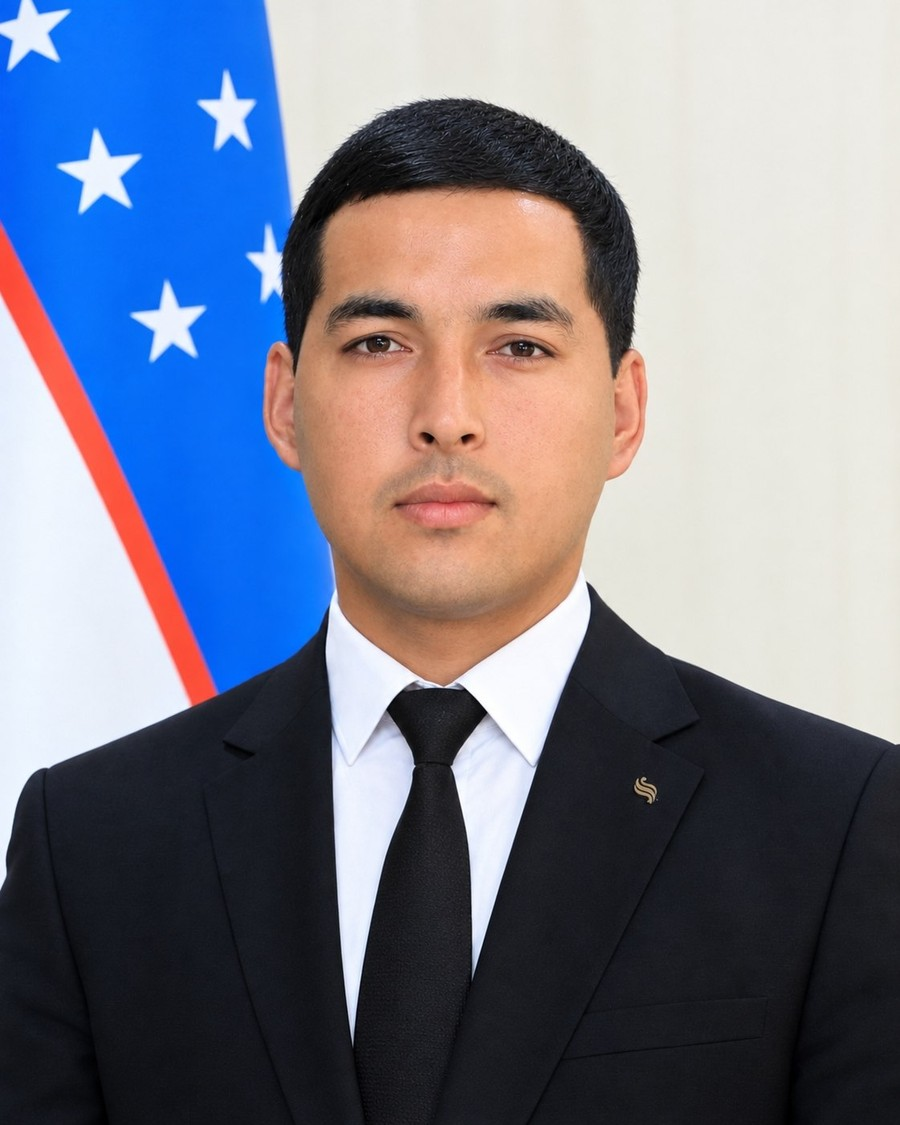
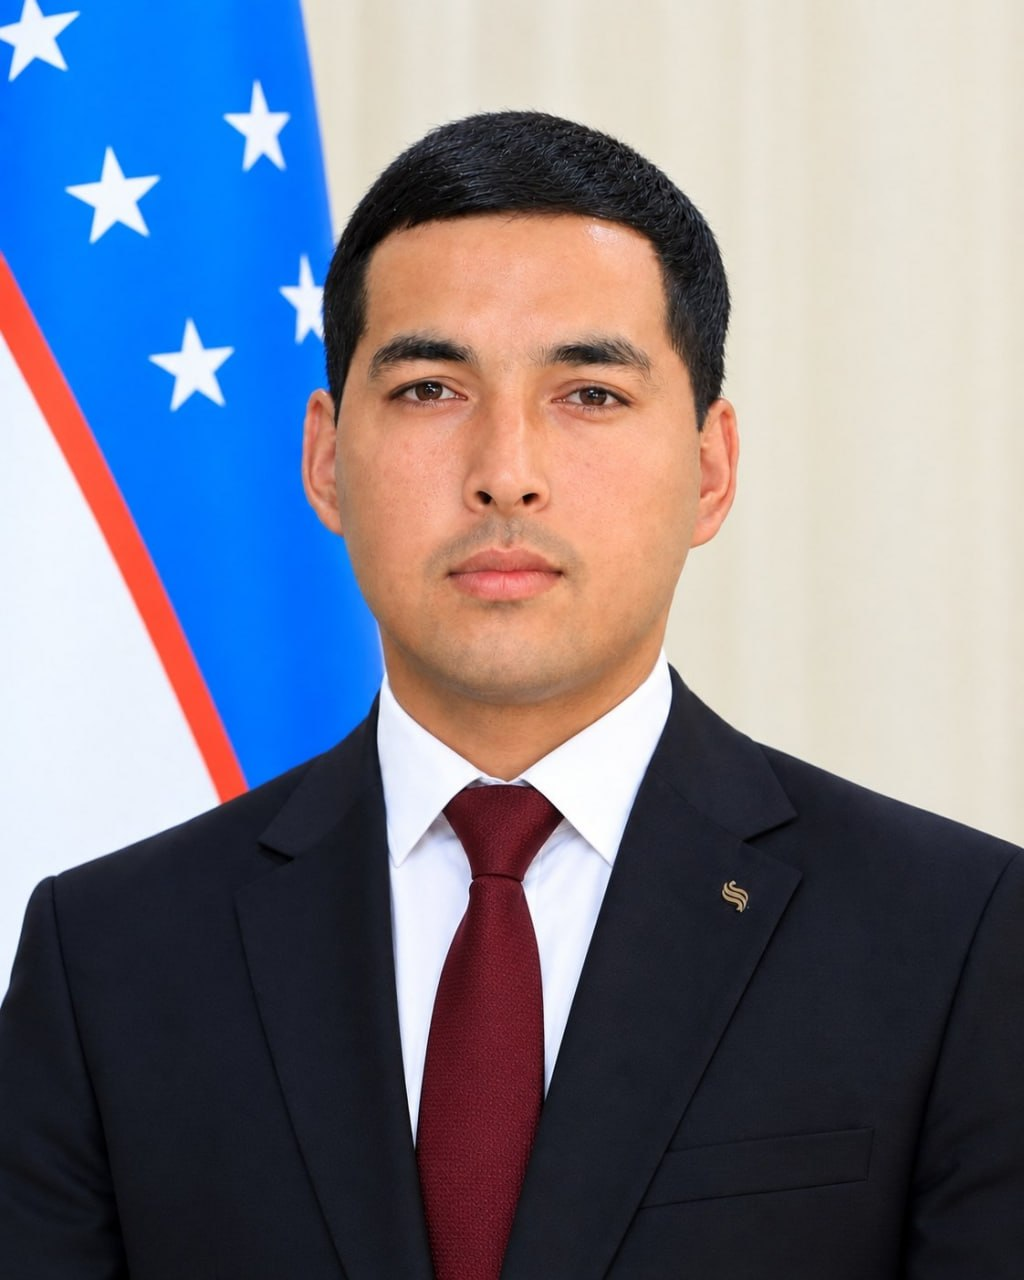
fix: rasmlarni yangilash, imloviy xatoliklar va katta harflarni to'g'rilash

diff --git a/src/data/siteData.js b/src/data/siteData.js
@@ -16,7 +16,7 @@ import {
 export const profile = {
   name: 'UrDU Yoshlar Ittifoqi BT',
   brand: 'UrDU Yoshlar Ittifoqi',
-  title: "Boshlang‘ich tashkiloti va Yetakchilar kengashi",
+  title: "Boshlang‘ich tashkiloti va yetakchilar kengashi",
   subtitle: "Urganch davlat universiteti Yoshlar ittifoqi boshlang‘ich tashkiloti",
   tagline: "Ilm, tashabbus va intellekt birlashgan maskan",
   university: 'Urganch Davlat Universiteti',
@@ -49,7 +49,7 @@ export const navItems = [
 
 export const universityStats = [
   {
-    value: '20,000+',
+    value: '20 000+',
     label: 'Talaba-yoshlar',
     description: 'Universitet bo‘ylab barcha fakultet talabalari',
     icon: Users,
@@ -508,7 +508,7 @@ export const partnerUniversities = [
     facultyFocus: 'Axborot texnologiyalari, Matematika, Iqtisodiyot',
     grantDetails: 'Bir semestr uchun to‘liq moliyalashtiriladigan grant (oylik 850€ + yo‘l xarajatlari).',
     description: 'UrDU bilan eng faol hamkorlardan biri. Har yili 5 dan ortiq talabamiz Klagenfurtda 1 semestr bepul tahsil oladi.',
-    badge: 'Erasmus+ Hamkor',
+    badge: 'Erasmus+ hamkor',
     website: 'https://www.aau.at',
   },
   {
@@ -524,7 +524,7 @@ export const partnerUniversities = [
     facultyFocus: 'Meʼmorchilik, Ekologiya, Muhandislik texnologiyalari',
     grantDetails: 'DAAD stipendiyalari va yozgi amaliyot kurslari orqali to‘liq qoplanadi.',
     description: 'Yevropaning nufuzli dizayn va meʼmorchilik dargohi. Atrof-muhit va barqaror qurilish yo‘nalishlarida yosh olimlar almashinuvi.',
-    badge: 'DAAD Dasturi',
+    badge: 'DAAD dasturi',
     website: 'https://www.uni-weimar.de',
   },
   {
@@ -540,7 +540,7 @@ export const partnerUniversities = [
     facultyFocus: 'Amaliy matematika, Kompyuter fanlari, Fizika',
     grantDetails: 'Oylik 850€ stipendiya va Yevropa Ittifoqining rasmiy diplomi berilishi.',
     description: "Amaliy matematika va axborot tizimlari bo‘yicha magistr talabalarimiz uchun 1+1 qo‘shma dasturi yo‘lga qo‘yilgan.",
-    badge: 'Erasmus+ Hamkor',
+    badge: 'Erasmus+ hamkor',
     website: 'https://www.univaq.it',
   },
   {
@@ -556,7 +556,7 @@ export const partnerUniversities = [
     facultyFocus: 'Tabiiy fanlar, Biologiya, Biotexnologiya',
     grantDetails: 'Erasmus+ doirasida bepul o‘qish, turar joy va oylik stipendiya.',
     description: 'Qishloq xo‘jaligi, oziq-ovqat xavfsizligi va bio-ekologiya bo‘yicha talabalarimiz ilmiy laboratoriyalarda amaliyot o‘taydilar.',
-    badge: 'Erasmus+ Hamkor',
+    badge: 'Erasmus+ hamkor',
     website: 'https://www.uco.es',
   },
   {
@@ -572,7 +572,7 @@ export const partnerUniversities = [
     facultyFocus: 'Agrobiznes, Iqtisodiyot, Oziq-ovqat texnologiyasi',
     grantDetails: 'Bir semestrlik o‘quv kursi va Yevropa standartidagi kreditlar (ECTS) transferi.',
     description: 'Polshaning eng yirik tabiiy fanlar universiteti. Talabalarimiz 1 semestr davomida ingliz tilidagi fanlarni o‘zlashtiradilar.',
-    badge: 'Akademik Hamkor',
+    badge: 'Akademik hamkor',
     website: 'https://www.sggw.edu.pl',
   },
   {
@@ -588,7 +588,7 @@ export const partnerUniversities = [
     facultyFocus: 'Tarix, Sharqshunoslik, Filologiya, Jurnalistika',
     grantDetails: 'Mevlana dasturi bo‘yicha bepul yotoqxona va 4 oylik stipendiya.',
     description: 'Turk dunyosi yoshlari o‘rtasida tarixiy-madaniy integratsiya va yosh tadqiqotchilarning arxiv ishlari.',
-    badge: 'Mevlana Dasturi',
+    badge: 'Mevlana dasturi',
     website: 'https://www.istanbul.edu.tr',
   },
   {
@@ -604,7 +604,7 @@ export const partnerUniversities = [
     facultyFocus: 'Turizm, Kimyo, O‘zbek-Turk tili',
     grantDetails: 'Bakalavr talabalari uchun 4-bosqichda Izmir shahrida o‘qish va ikki tomonlama diplom.',
     description: 'UrDU bilan ikki tomonlama diplom (Double Degree) beruvchi eng yirik strategik taʼlim hamkori.',
-    badge: 'Qo‘shma Diplom',
+    badge: 'Qo‘shma diplom',
     website: 'https://ege.edu.tr',
   },
   {
@@ -620,7 +620,7 @@ export const partnerUniversities = [
     facultyFocus: 'Matematika va mexanika, Kimyo, Fizika',
     grantDetails: 'Magistr va iqtidorli talabalar uchun ilmiy laboratoriyalarda qisqa muddatli amaliyot.',
     description: 'MDH hududidagi yetakchi oliygoh bilan fundamental fanlar bo‘yicha seminar va mahorat darslari.',
-    badge: 'Ilmiy Hamkor',
+    badge: 'Ilmiy hamkor',
     website: 'https://www.msu.ru',
   },
   {
@@ -636,7 +636,7 @@ export const partnerUniversities = [
     facultyFocus: 'Filologiya, Huquq, Axborot texnologiyalari',
     grantDetails: 'O‘zaro kelishuv asosida bepul o‘qish va stipendiyali almashinuv.',
     description: 'KFU ning IT-litseyi va yoshlar markazlari bilan muntazam xakatonlar va tajriba almashinuvi.',
-    badge: 'Akademik Hamkor',
+    badge: 'Akademik hamkor',
     website: 'https://kpfu.ru',
   },
   {
@@ -652,7 +652,7 @@ export const partnerUniversities = [
     facultyFocus: 'Raqamli iqtisodiyot, Sunʼiy intellekt, Xitoy tili',
     grantDetails: 'To‘liq qoplanadigan hukumat granti (o‘qish, yotoqxona, tibbiy sug‘urta va oylik 3000 yuan).',
     description: 'Xitoy tilini o‘rganayotgan va IT yo‘nalishidagi iqtidorli talabalar uchun beqiyos global tramplin.',
-    badge: 'CSC Hukumat Granti',
+    badge: 'CSC hukumat granti',
     website: 'https://www.shu.edu.cn',
   },
   {
@@ -668,7 +668,7 @@ export const partnerUniversities = [
     facultyFocus: 'Xalqaro munosabatlar, Turizm menejmenti, Ingliz tili',
     grantDetails: 'Qisqa muddatli yetakchilik kurslari va almashinuv dasturlari.',
     description: 'Janubi-sharqiy Osiyoning yetakchi nufuzli universiteti bilan yoshlar yetakchilari almashinuvi.',
-    badge: 'Xalqaro Forum',
+    badge: 'Xalqaro forum',
     website: 'https://www.ukm.my',
   },
   {
@@ -684,7 +684,7 @@ export const partnerUniversities = [
     facultyFocus: 'Tarix, Biologiya, Geografiya va ekologiya',
     grantDetails: 'Mintaqaviy integratsiya doirasida bepul taʼlim va yotoqxona.',
     description: 'Qardosh Qozog‘iston bilan talabalar ilmiy anjumanlari va sport musobaqalaridagi yaqin hamkorlik.',
-    badge: 'Mintaqaviy Hamkor',
+    badge: 'Mintaqaviy hamkor',
     website: 'https://www.kaznu.kz',
   },
 ]

diff --git a/src/App.jsx b/src/App.jsx
@@ -122,7 +122,7 @@ function App() {
     if (normalizedPath === '/tuzilma' || normalizedPath === '/team') {
       seo = {
         ...seo,
-        title: 'Tuzilma va Yetakchilar | Ursu Ittifoq',
+        title: 'Tuzilma va yetakchilar | Ursu Ittifoq',
         description:
           'Urganch davlat universiteti Yoshlar ittifoqi yetakchilar kengashi, boshqaruv tarkibi va fakultet koordinatorlari.',
       }
@@ -132,7 +132,7 @@ function App() {
     ) {
       seo = {
         ...seo,
-        title: 'Klublar va To‘garaklar | Ursu Ittifoq',
+        title: 'Klublar va to‘garaklar | Ursu Ittifoq',
         description:
           'Urganch davlat universiteti talabalar klublari, ilmiy to‘garaklar, intellektual jamoalar va yoshlar loyihalari.',
       }
@@ -142,42 +142,42 @@ function App() {
     ) {
       seo = {
         ...seo,
-        title: 'Klub Tafsilotlari | Ursu Ittifoq',
+        title: 'Klub tafsilotlari | Ursu Ittifoq',
         description:
           'Urganch davlat universiteti Yoshlar ittifoqi yo‘nalishi va talabalar klubi faoliyati haqida batafsil maʼlumot.',
       }
     } else if (normalizedPath === '/boglanish') {
       seo = {
         ...seo,
-        title: 'Bog‘lanish va Murojaat | Ursu Ittifoq',
+        title: 'Bog‘lanish va murojaat | Ursu Ittifoq',
         description:
           'Urganch davlat universiteti Yoshlar ittifoqi rasmiy manzillari, aloqa telefonlari va onlayn murojaat yuborish.',
       }
     } else if (normalizedPath === '/hamkorlik') {
       seo = {
         ...seo,
-        title: 'Xalqaro Hamkorlik va Grantlar | Ursu Ittifoq',
+        title: 'Xalqaro hamkorlik va grantlar | Ursu Ittifoq',
         description:
           'Urganch davlat universiteti talabalari uchun xalqaro grantlar, xorijiy almashinuv dasturlari va loyihalar.',
       }
     } else if (normalizedPath === '/yangiliklar') {
       seo = {
         ...seo,
-        title: 'Yangiliklar va Eʼlonlar | Ursu Ittifoq',
+        title: 'Yangiliklar va eʼlonlar | Ursu Ittifoq',
         description:
           'Urganch davlat universiteti Yoshlar ittifoqi so‘nggi yangiliklari, eʼlonlar, xakatonlar va yoshlar tadbirlari.',
       }
     } else if (normalizedPath.startsWith('/yangiliklar/')) {
       seo = {
         ...seo,
-        title: 'Yangilik Tafsilotlari | Ursu Ittifoq',
+        title: 'Yangilik tafsilotlari | Ursu Ittifoq',
         description:
           'Urganch davlat universiteti Yoshlar ittifoqi yangiligi va talabalar tadbirlari haqida to‘liq maʼlumot.',
       }
     } else if (normalizedPath === '/statistika') {
       seo = {
         ...seo,
-        title: 'Statistika va Ko‘rsatkichlar | Ursu Ittifoq',
+        title: 'Statistika va ko‘rsatkichlar | Ursu Ittifoq',
         description:
           'Urganch davlat universiteti talaba-yoshlar kontingenti, fakultetlar va jamoatchilik faolligi ko‘rsatkichlari.',
       }
@@ -185,7 +185,7 @@ function App() {
       shouldIndex = false
       seo = {
         ...seo,
-        title: 'Admin Boshqaruv Paneli | Ursu Ittifoq',
+        title: 'Admin boshqaruv paneli | Ursu Ittifoq',
         description: 'Urganch davlat universiteti Yoshlar ittifoqi admin boshqaruv tizimi.',
       }
     } else if (!isHome) {

diff --git a/src/components/sections/HeroSection.jsx b/src/components/sections/HeroSection.jsx
@@ -58,7 +58,7 @@ function HeroSection() {
             </h1>
 
             <p className="mt-3 text-lg font-semibold text-emerald-700 sm:text-xl dark:text-emerald-300/90">
-              UrDU Yoshlar ittifoqi — Boshlang‘ich tashkiloti va Yetakchilar kengashi
+              UrDU Yoshlar ittifoqi — Boshlang‘ich tashkiloti va yetakchilar kengashi
             </p>
 
             <p className="mt-4 max-w-[55ch] text-base leading-relaxed text-zinc-600 sm:text-lg dark:text-zinc-300">
@@ -121,14 +121,14 @@ function HeroSection() {
           <div className="flex items-start gap-3">
             <Award size={18} className="text-cyan-600 shrink-0 mt-0.5 dark:text-cyan-400" />
             <div>
-              <p className="font-bold text-zinc-900 dark:text-zinc-200">13 ta Fakultet Kengashi</p>
-              <p className="mt-0.5 text-zinc-500 font-normal">20,000+ Talaba qamrovi</p>
+              <p className="font-bold text-zinc-900 dark:text-zinc-200">13 ta fakultet kengashi</p>
+              <p className="mt-0.5 text-zinc-500 font-normal">20 000+ talaba qamrovi</p>
             </div>
           </div>
           <div className="flex items-start gap-3 sm:justify-end">
             <Send size={18} className="text-amber-500 shrink-0 mt-0.5 dark:text-amber-400" />
             <div className="sm:text-right">
-              <p className="font-bold text-zinc-900 dark:text-zinc-200">Rasmiy Kanal</p>
+              <p className="font-bold text-zinc-900 dark:text-zinc-200">Rasmiy kanal</p>
               <p className="mt-0.5 text-zinc-500 font-normal">{profile.telegramHandle}</p>
             </div>
           </div>

diff --git a/src/components/sections/BlogsSection.jsx b/src/components/sections/BlogsSection.jsx
@@ -26,7 +26,7 @@ function BlogsSection() {
           Yangiliklar & Eʼlonlar
         </div>
         <h2 className="mt-4 text-3xl font-bold tracking-tight text-zinc-900 sm:text-4xl lg:text-5xl dark:text-zinc-100">
-          Universitet <span className="bg-gradient-to-r from-emerald-600 via-teal-600 to-cyan-600 bg-clip-text text-transparent dark:from-emerald-400 dark:via-teal-300 dark:to-cyan-400">Yoshlar Hayoti</span>
+          Universitet <span className="bg-gradient-to-r from-emerald-600 via-teal-600 to-cyan-600 bg-clip-text text-transparent dark:from-emerald-400 dark:via-teal-300 dark:to-cyan-400">yoshlar hayoti</span>
         </h2>
         <p className="mx-auto mt-4 max-w-2xl text-base text-zinc-600 dark:text-zinc-400">
           Xakatonlar, intellektual turnirlar, festivallar, eʼlonlar va talabalarimizning respublika miqyosidagi yutuqlari.
@@ -102,7 +102,7 @@ function BlogsSection() {
 
             {/* Bottom link */}
             <div className="mt-6 border-t border-zinc-200/80 pt-4 flex items-center justify-between dark:border-zinc-800/80">
-              <span className="text-xs text-zinc-500">UrDU Yoshlar Matbuot Xizmati</span>
+              <span className="text-xs text-zinc-500">UrDU Yoshlar matbuot xizmati</span>
               <Link
                 to={`/yangiliklar/${item.id}`}
                 className="inline-flex items-center gap-1.5 text-xs font-bold text-emerald-600 transition hover:text-emerald-700 dark:text-emerald-400 dark:hover:text-emerald-300"

diff --git a/index.html b/index.html
@@ -68,7 +68,7 @@
               "UrDU Yoshlar ittifoqi",
               "Yoshlar ittifoqi Ursu"
             ],
-            "description": "Urganch davlat universiteti Yoshlar ittifoqi boshlang‘ich tashkiloti va Yetakchilar kengashi rasmiy portali.",
+            "description": "Urganch davlat universiteti Yoshlar ittifoqi boshlang‘ich tashkiloti va yetakchilar kengashi rasmiy portali.",
             "inLanguage": "uz"
           },
           {
@@ -102,7 +102,7 @@
             ],
             "parentOrganization": {
               "@type": "CollegeOrUniversity",
-              "name": "Urganch Davlat Universiteti",
+              "name": "Urganch davlat universiteti",
               "url": "https://urdu.uz"
             }
           }
@@ -141,7 +141,7 @@
       <noscript>
         <header>
           <h1>Urganch davlat universiteti Yoshlar ittifoqi</h1>
-          <p><strong>Ursu Ittifoq</strong> — Urganch davlat universiteti Yoshlar ittifoqi boshlang‘ich tashkiloti va Yetakchilar kengashi rasmiy portali.</p>
+          <p><strong>Ursu Ittifoq</strong> — Urganch davlat universiteti Yoshlar ittifoqi boshlang‘ich tashkiloti va yetakchilar kengashi rasmiy portali.</p>
           <nav>
             <ul>
               <li><a href="/">Bosh sahifa</a></li>

diff --git a/src/components/pages/KlublarPage.jsx b/src/components/pages/KlublarPage.jsx
@@ -21,7 +21,7 @@ export default function KlublarPage() {
         <div className="absolute inset-0 z-0">
           <img
             src="https://images.unsplash.com/photo-1523240795612-9a054b0db644?auto=format&fit=crop&w=2000&q=85"
-            alt="UrDU Talabalar Klublari"
+            alt="UrDU talabalar klublari"
             className="h-full w-full object-cover object-center filter brightness-[0.45] contrast-[1.05] dark:brightness-[0.3]"
           />
           {/* Crisp, deep cinematic overlay without foggy washouts */}
@@ -58,7 +58,7 @@ export default function KlublarPage() {
                 <p className="text-[11px] font-semibold text-zinc-300 mt-0.5">Asosiy yo‘nalishlar</p>
               </div>
               <div className="rounded-2xl border border-white/15 bg-black/40 p-3.5 backdrop-blur-md text-center">
-                <p className="text-2xl font-black text-teal-300">2,500+</p>
+                <p className="text-2xl font-black text-teal-300">2 500+</p>
                 <p className="text-[11px] font-semibold text-zinc-300 mt-0.5">Faol talabalar</p>
               </div>
               <div className="rounded-2xl border border-white/15 bg-black/40 p-3.5 backdrop-blur-md text-center">

diff --git a/src/components/admin/ClubEditorModal.jsx b/src/components/admin/ClubEditorModal.jsx
@@ -216,7 +216,7 @@ export default function ClubEditorModal({ isOpen, onClose, onSave, editItem }) {
                       }`}
                     >
                       <span className="text-base">🏛</span>
-                      <span>Universitet Klubi</span>
+                      <span>Universitet klubi</span>
                     </button>
                   </div>
                   <p className="text-[11px] text-zinc-500 mt-1.5">
@@ -236,7 +236,7 @@ export default function ClubEditorModal({ isOpen, onClose, onSave, editItem }) {
                 required
                 value={title}
                 onChange={(e) => setTitle(e.target.value)}
-                placeholder="Masalan: 'IT & Sunʼiy Intellekt' yoki 'Yoshlar Notiqlik Klubi'"
+                placeholder="Masalan: 'IT va sunʼiy intellekt' yoki 'Yoshlar notiqlik klubi'"
                 className="w-full rounded-2xl border border-zinc-200 bg-zinc-50 px-4 py-2.5 text-xs text-zinc-900 outline-none focus:border-cyan-500 dark:border-zinc-800 dark:bg-zinc-900 dark:text-zinc-100"
               />
             </div>

diff --git a/src/components/admin/SlideEditorModal.jsx b/src/components/admin/SlideEditorModal.jsx
@@ -113,14 +113,14 @@ export default function SlideEditorModal({ isOpen, onClose, onSave, editItem }) 
                 {/* Title */}
             <div>
               <label className="block text-xs font-bold uppercase tracking-wider text-zinc-700 dark:text-zinc-300 mb-1">
-                Qisqa va Aniq Sarlavha *
+                Qisqa va aniq sarlavha *
               </label>
               <input
                 type="text"
                 required
                 value={title}
                 onChange={(e) => setTitle(e.target.value)}
-                placeholder="Masalan: 5,000+ Ko‘chat Ekish Aksiyasi"
+                placeholder="Masalan: 5 000+ ko‘chat ekish aksiyasi"
                 className="w-full rounded-2xl border border-zinc-200 bg-zinc-50 px-4 py-2.5 text-xs text-zinc-900 outline-none focus:border-emerald-500 dark:border-zinc-800 dark:bg-zinc-900 dark:text-zinc-100"
               />
             </div>

diff --git a/src/components/admin/NewsEditorModal.jsx b/src/components/admin/NewsEditorModal.jsx
@@ -43,7 +43,7 @@ const SAMPLE_PRESET_IMAGES = [
   { label: 'IT & Texnologiya', url: 'https://images.unsplash.com/photo-1504384308090-c894fdcc538d?w=1200&auto=format&fit=crop&q=80' },
   { label: 'Universitet & Talabalar', url: 'https://images.unsplash.com/photo-1523240795612-9a054b0db644?w=1200&auto=format&fit=crop&q=80' },
   { label: 'Madaniyat & Sanʼat', url: 'https://images.unsplash.com/photo-1460723237483-7a6dc9d0b212?w=1200&auto=format&fit=crop&q=80' },
-  { label: 'Xalqaro Grantlar', url: 'https://images.unsplash.com/photo-1526778548025-fa2f459cd5c1?w=1200&auto=format&fit=crop&q=80' },
+  { label: 'Xalqaro grantlar', url: 'https://images.unsplash.com/photo-1526778548025-fa2f459cd5c1?w=1200&auto=format&fit=crop&q=80' },
 ]
 
 export default function NewsEditorModal({ isOpen, onClose, onSave, editItem = null }) {

diff --git a/src/components/sections/TeamSection.jsx b/src/components/sections/TeamSection.jsx
@@ -55,7 +55,7 @@ function LeaderFeaturedCard({ member }) {
           <div className="space-y-4">
             <div>
               <span className="inline-block text-[11px] font-extrabold uppercase tracking-widest text-emerald-600 dark:text-emerald-400 bg-emerald-500/10 px-3 py-1 rounded-full border border-emerald-500/20 mb-3">
-                Boshqaruv yetakchisi
+                Boshlang‘ich tashkilot yetakchisi
               </span>
               <h3 className="text-2xl sm:text-3xl lg:text-4xl font-extrabold tracking-tight text-zinc-900 group-hover:text-emerald-600 transition-colors dark:text-zinc-100 dark:group-hover:text-emerald-300">
                 {member.name}

diff --git a/src/components/admin/AdminDashboard.jsx b/src/components/admin/AdminDashboard.jsx
@@ -317,7 +317,7 @@ export default function AdminDashboard() {
               }`}
             >
               <Newspaper size={14} />
-              <span>1. Yangilik va Eʼlonlar ({newsList.length})</span>
+              <span>1. Yangilik va eʼlonlar ({newsList.length})</span>
             </button>
 
             <button
@@ -333,7 +333,7 @@ export default function AdminDashboard() {
               }`}
             >
               <Compass size={14} />
-              <span>2. Klub va To‘garaklar ({clubsList.length})</span>
+              <span>2. Klub va to‘garaklar ({clubsList.length})</span>
             </button>
 
             <button

diff --git a/src/components/sections/BehindCurtains.jsx b/src/components/sections/BehindCurtains.jsx
@@ -107,7 +107,7 @@ function BehindCurtains() {
         <div>
           <p className="text-[11px] font-bold uppercase tracking-[0.2em] text-emerald-600 dark:text-emerald-400">Biz bilan bog‘laning</p>
           <p className="mt-1 text-sm leading-relaxed text-zinc-600 dark:text-zinc-300">
-            UrDU Yoshlar Ittifoqi barcha talabalarga ochiq — o‘z tashabbus va g‘oyangiz bilan safimizga qo‘shiling!
+            UrDU Yoshlar ittifoqi barcha talabalarga ochiq — o‘z tashabbus va g‘oyangiz bilan safimizga qo‘shiling!
           </p>
         </div>
 
